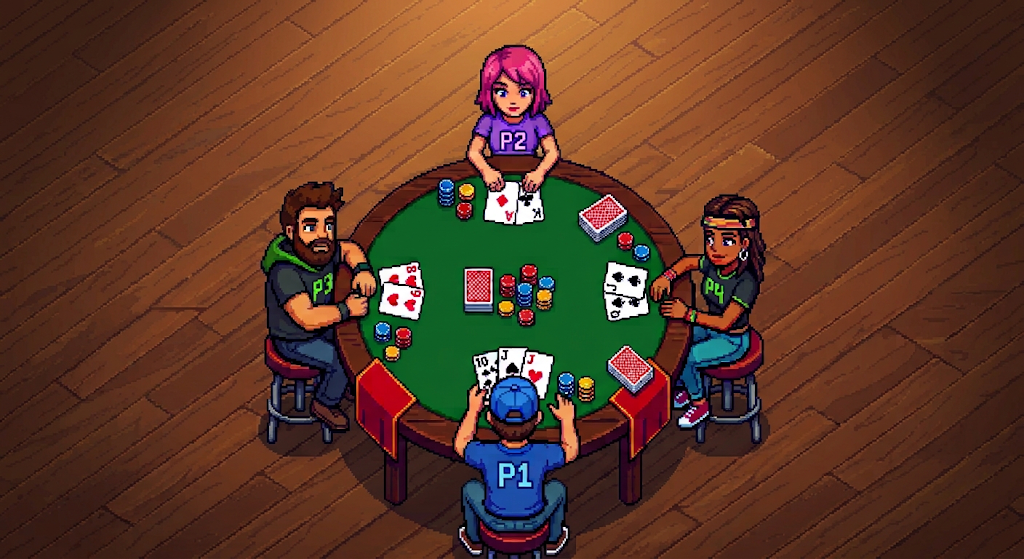
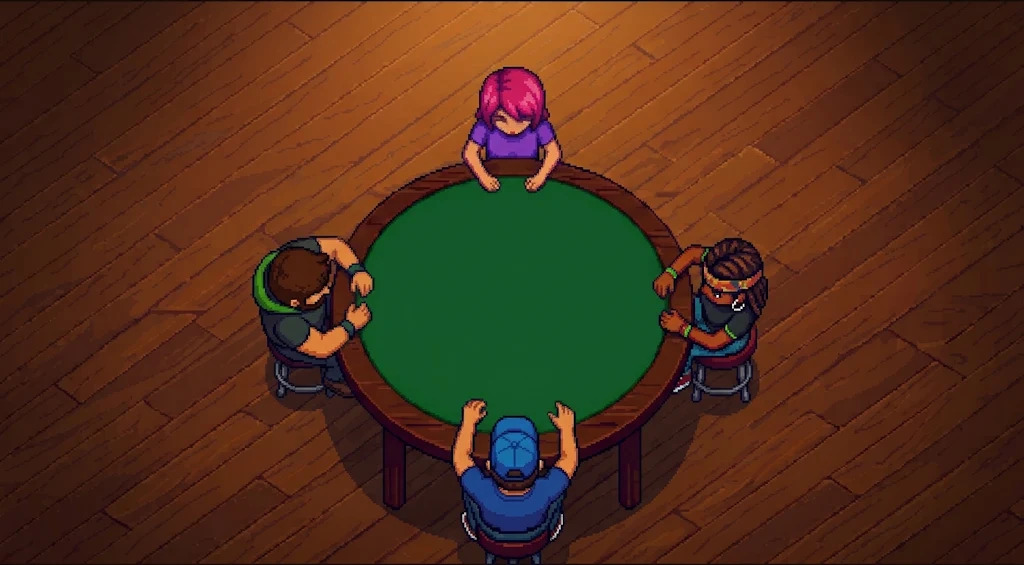
feat(frontend): exibir raciocínio dos agentes na mesa

diff --git a/src/frontend/src/App.jsx b/src/frontend/src/App.jsx
@@ -7,15 +7,24 @@ const BASE_MS = 900;
 const AREAS = ["bottom", "right", "top", "left"]; // seats A1, B1, A2, B2: partners face each other
 
 // Where things go on the scene image, in % of its width and height (x, y).
-// card = where that player's played card lands in the middle of the table.
+// mind = which edges of the image that player's thinking box is pinned to (in %). It grows inward from there, so it is never cut off.
+// The speech bubble hangs off the box (below a top box, above a bottom one), so it is always next to whoever is talking;
+// it may cover part of the table as long as it stays off the cards and the players.
+// card = where that player's played card lands on the felt; hand = the fan of cards on the felt in front of them.
+// Everything on the felt stays inside the green oval (about x 35-65%, y 31-73%) so no card covers a player or the wood.
 // If the art changes, this is the only place to adjust.
 const SPOT = {
-  bottom: { card: [50, 57.6], hand: [49.8, 66.5], tag: [50, 96.5], bubble: [65, 80] },
-  right: { card: [54.3, 53], hand: [61.3, 51.9], tag: [81, 60], bubble: [79, 30] },
-  top: { card: [50, 48.3], hand: [50.3, 36.7], tag: [50, 4], bubble: [62, 12] },
-  left: { card: [45.7, 53], hand: [39.1, 51.5], tag: [19, 60], bubble: [24, 28] },
+  bottom: { card: [50.3, 58.5], hand: [50.2, 67.5], mind: { left: 1, bottom: 2 }, tag: [50, 94] },
+  right: { card: [55.3, 54], hand: [61.4, 53.3], mind: { right: 1, bottom: 2 }, tag: [79, 53] },
+  top: { card: [49.7, 48.3], hand: [50.2, 38.5], mind: { right: 1, top: 2 }, tag: [50, 5] },
+  left: { card: [44.7, 53], hand: [38.8, 53.3], mind: { left: 1, top: 2 }, tag: [21, 53] },
 };
+// Seat tag (A1, B2...): by default it sits beyond each hand, away from the table centre, i.e. next to the player.
+// To place one by hand, add tag: [x, y] to that seat in SPOT.
+const CENTER = [50, 53.5];
+const tagPos = ({ tag, hand }) => tag ?? hand.map((v, i) => Math.max(4, Math.min(96, CENTER[i] + (v - CENTER[i]) * 2.2)));
 const at = ([x, y]) => ({ left: `${x}%`, top: `${y}%` });
+const pin = (edges) => Object.fromEntries(Object.entries(edges).map(([k, v]) => [k, `${v}%`]));
 
 const MANILHAS = new Set(["7D", "AS", "7H", "4C"]);
 const pct = (x) => `${Math.round(x * 100)}%`;
@@ -28,30 +37,60 @@ function Card({ card, back, area, style }) {
   return <img className={cls} style={style} src={`/cards/${file}.png`} alt={card.rank} title={card.rank === "4C" ? "Zap" : card.rank} />;
 }
 
-function Thought({ th }) {
-  const hasChance = th.win_chance != null;
-  const what = [th.decision, th.card, th.response].filter(Boolean).join(" ");
+const fmt = (x) => (x == null ? "–" : Number(x).toFixed(2));
+// Strengths go from 0 to 1 (power = (position / 11) ** 1.5). The ticks mark WEAK_BELOW and STRONG_FROM from config.py.
+const WEAK_BELOW = 0.35, STRONG_FROM = 0.6;
+
+function Strength({ label, value }) {
+  const v = value == null ? 0 : Math.max(0, Math.min(1, Number(value)));
   return (
-    <div className="thought" title={th.beliefs ? JSON.stringify(th.beliefs) : ""}>
-      {hasChance && (
-        <div className="bar">
-          <i style={{ width: pct(th.win_chance) }} />
-          <b style={{ left: pct(th.raise_threshold) }} />
-        </div>
-      )}
-      <small>{what}{hasChance && ` · chance ${pct(th.win_chance)} · limiar ${pct(th.raise_threshold)}`}</small>
+    <div className="row">
+      <span>{label}</span>
+      <div className="bar">
+        <i style={{ width: pct(v) }} />
+        <u style={{ left: pct(WEAK_BELOW) }} />
+        <u style={{ left: pct(STRONG_FROM) }} />
+      </div>
+      <strong>{fmt(value)}</strong>
     </div>
   );
 }
 
-function Mind({ seat, st }) {
+function Thought({ th, names }) {
+  const who = (jid) => names[jid] ?? jid;
+  const what = [th.decision, th.card, th.response].filter(Boolean).join(" ");
+  const partner = Object.entries(th.beliefs_about_partner ?? {});
+  const opponents = Object.entries(th.beliefs_about_opponents ?? {});
+  return (
+    <div className="thought">
+      <Strength label="Minha mão" value={th.own_strength} />
+      {partner.map(([jid, v]) => <Strength key={jid} label={`Parceiro ${who(jid)}`} value={v} />)}
+      {opponents.map(([jid, v]) => <Strength key={jid} label={`Oponente ${who(jid)}`} value={v} />)}
+      {th.win_chance != null && (
+        <div className="row chance" title={`limiar para aumentar: ${pct(th.raise_threshold)}`}>
+          <span>Chance de ganhar</span>
+          <div className="bar">
+            <i style={{ width: pct(th.win_chance) }} />
+            <b style={{ left: pct(th.raise_threshold) }} />
+          </div>
+          <strong>{pct(th.win_chance)}</strong>
+        </div>
+      )}
+      <p className="what">{what}</p>
+    </div>
+  );
+}
+
+function Mind({ seat, st, style, side }) {
+  const bubble = st.bubbles[seat.jid];
   const talk = st.talk?.[seat.jid];
   const th = st.thoughts[seat.jid];
   return (
-    <section className={`mind team${seat.team}`}>
-      <h3>{seat.seat} <span>{seat.personality}</span></h3>
+    <section className={`mind team${seat.team}`} style={style}>
+      <h3><b className="seat">{seat.seat}</b> <span>{seat.personality}</span></h3>
       {talk && <p className="talk">conversa: <em className={talk.action}>{talk.action}{talk.value && ` ${talk.value}`}</em></p>}
-      {th && <Thought th={th} />}
+      {bubble && <span key={bubble} className={`bubble ${side}`}>{bubble}</span>}
+      {th ? <Thought th={th} names={st.names} /> : <p className="wait">aguardando decisão</p>}
     </section>
   );
 }
@@ -99,6 +138,7 @@ export default function App() {
           <button onClick={() => setPlaying(!playing)}>{playing ? "Pausar" : "Continuar"}</button>
           <button onClick={() => setCursor((c) => Math.min(c + 1, events.length))}>Próximo evento</button>
           <button onClick={() => setCursor(events.length)}>Ir ao vivo</button>
+          <label className="toggle"><input type="checkbox" checked={showHands} onChange={(e) => setShowHands(e.target.checked)} /> Mostrar mãos</label>
           <select value={speed} onChange={(e) => setSpeed(Number(e.target.value))} aria-label="Velocidade">
             {SPEEDS.map((v) => <option key={v} value={v}>{v}×</option>)}
           </select>
@@ -112,14 +152,12 @@ export default function App() {
         <main>
           <div className="scene">
             <img className="bg" src="/table.png" alt="Quatro jogadores em volta da mesa de truco" />
-            <div className="mat" />
             {st.seats.map((seat, i) => {
               const spot = SPOT[AREAS[i]];
               const hand = st.hands[seat.jid] ?? [];
               return (
                 <Fragment key={seat.jid}>
-                  <div className="hand-mat" style={at(spot.hand)} />
-                  <div className="fan" style={at(spot.hand)}>
+                  <div className={`fan ${AREAS[i]}`} style={at(spot.hand)}>
                     {hand.map((c, k) => (
                       <Card key={`${c.rank}${c.suit}${k}`} card={c} back={!showHands} style={{ "--r": `${(k - (hand.length - 1) / 2) * 7}deg` }} />
                     ))}
@@ -134,19 +172,12 @@ export default function App() {
               return (
                 <Fragment key={seat.jid}>
                   {played && <Card key={st.tableSeq[seat.jid]} card={played} area={area} style={at(spot.card)} />}
-                  <span className={`tag team${seat.team}`} style={at(spot.tag)}>{seat.seat} {seat.personality}</span>
-                  {st.bubbles[seat.jid] && <span key={st.bubbles[seat.jid]} className="bubble" style={at(spot.bubble)}>{st.bubbles[seat.jid]}</span>}
+                  <span className={`tag team${seat.team}`} style={at(tagPos(spot))}>{seat.seat}</span>
+                  <Mind seat={seat} st={st} style={pin(spot.mind)} side={spot.mind.top != null ? "below" : "above"} />
                 </Fragment>
               );
             })}
           </div>
-          <aside>
-            <h2>Raciocínio</h2>
-            <label className="toggle"><input type="checkbox" checked={showHands} onChange={(e) => setShowHands(e.target.checked)} /> Mostrar mãos</label>
-            {st.seats.map((seat) => <Mind key={seat.jid} seat={seat} st={st} />)}
-            <h2>Eventos</h2>
-            <ol>{st.log.slice().reverse().map((l, i) => <li key={i}>{l}</li>)}</ol>
-          </aside>
         </main>
       )}
     </div>

diff --git a/src/frontend/src/styles.css b/src/frontend/src/styles.css
@@ -1,7 +1,9 @@
+/* felt colour is read from the image itself, no overlay needed */
 :root {
   --floor: #24150c; --plank: #3a2314; --edge: #1a0e07; --paper: #f3ead2; --ink: #2b1b12;
   --red: #c8372d; --brass: #e0b04a; --teamA: #6fd0b8; --teamB: #f0a24a;
   --felt-mat: #0e6226; /* tune to match the table in the image */
+  --num: "Atkinson Hyperlegible Mono", ui-monospace, monospace; /* digits are hard to read in Pixelify Sans */
   --pixel: "Pixelify Sans", ui-monospace, "Courier New", monospace;
 }
 * { box-sizing: border-box; }
@@ -20,35 +22,38 @@ header { display: flex; flex-wrap: wrap; gap: 1rem 2rem; align-items: center; ju
 .controls { display: flex; gap: .5rem; flex-wrap: wrap; }
 .empty, .error { padding: 2rem 1.5rem; } .error { color: #ff9a8f; }
 
-main { display: grid; grid-template-columns: minmax(0, 1fr) 19rem; gap: 1.2rem; padding: 1.2rem 1.5rem; align-items: start; }
+main { padding: .6rem; }
 
 /* Scene: the image plus everything laid over it, positioned in % (see SPOT in App.jsx) */
-.scene { position: relative; container-type: inline-size; border: 4px solid var(--edge); box-shadow: 0 6px 0 #0008; line-height: 0; }
+.scene { width: min(100%, calc((100vh - 5.5rem) * 1.812)); margin: 0 auto; position: relative; container-type: inline-size; border: 4px solid var(--edge); box-shadow: 0 6px 0 #0008; line-height: 0; }
 .scene > * { position: absolute; transform: translate(-50%, -50%); line-height: 1.3; }
 .scene > img.bg { position: static; transform: none; width: 100%; height: auto; display: block; image-rendering: pixelated; }
-.mat { left: 50%; top: 52.8%; width: 17.9%; height: 19.3%; background: var(--felt-mat); border-radius: 50%; box-shadow: 0 0 1cqw .8cqw var(--felt-mat); }
 
-.tag { font-size: clamp(10px, 1.35cqw, 15px); background: var(--ink); border: 2px solid var(--team); padding: .1em .6em; white-space: nowrap; }
-.bubble { font-size: clamp(11px, 1.8cqw, 19px); font-weight: 700; background: #fffbe9; color: var(--ink); border: 2px solid var(--ink); box-shadow: 3px 3px 0 #0006; padding: .15em .6em; white-space: nowrap; animation: pop .25s steps(3) both; }
+.bubble { position: absolute; left: 50%; translate: -50% 0; z-index: 2; font-size: clamp(11px, 1.8cqw, 19px); font-weight: 700; background: #fffbe9; color: var(--ink); border: 3px solid var(--team); box-shadow: 3px 3px 0 #0006; padding: .15em .6em; white-space: nowrap; animation: pop .25s steps(3) both; }
+.bubble.below { top: 100%; margin-top: .5em; }
+.bubble.above { bottom: 100%; margin-bottom: .5em; }
 @keyframes pop { from { scale: .6; } to { scale: 1; } }
 
 
-aside { background: var(--plank); border: 4px solid var(--edge); padding: .8rem 1rem; max-height: 85vh; overflow-y: auto; display: grid; gap: .7rem; }
-aside h2 { margin: .3rem 0 0; font-size: 1.1rem; color: var(--brass); }
 .toggle { font-size: .9rem; display: flex; gap: .5rem; align-items: center; }
-.mind { border-left: 4px solid var(--team); padding-left: .6rem; display: grid; gap: .3rem; }
-.mind h3 { margin: 0; font-size: 1rem; } .mind h3 span { font-weight: 400; opacity: .7; margin-left: .4rem; }
-.hand { display: flex; gap: .3rem; }
-.talk { margin: 0; font-size: .8rem; } .talk em { font-style: normal; border: 1px solid var(--paper); padding: 0 .4rem; }
+.mind { font-size: clamp(9px, .95cqw, 14px); background: #2b1b12ee; border: 2px solid var(--team); padding: .5em .7em; display: grid; gap: .3em; }
+.tag { font-family: var(--num); font-weight: 700; font-size: clamp(11px, 1.6cqw, 18px); background: var(--ink); border: 2px solid var(--team); color: var(--team); padding: .05em .5em; white-space: nowrap; }
+/* only the numbers use the readable face; the rest of the text stays in Pixelify Sans */
+.row strong, .plaque strong, .meta, .seat { font-family: var(--num); font-weight: 700; font-variant-numeric: tabular-nums; }
+.scene > .mind { transform: none; width: max-content; min-width: 20cqw; }
+.mind h3 { margin: 0; white-space: nowrap; font-size: 1.15em; color: var(--team); } .mind h3 span { font-weight: 400; color: var(--paper); opacity: .7; margin-left: .4rem; }
+.talk { margin: 0; font-size: .85em; } .talk em { font-style: normal; border: 1px solid var(--paper); padding: 0 .4rem; }
 .talk .bluff { border-color: var(--red); color: #ff9a8f; } .talk .spy { border-color: var(--brass); color: var(--brass); }
-.thought { display: grid; gap: .25rem; } .thought small { font-size: .75rem; opacity: .9; }
-.bar { position: relative; height: 8px; background: var(--ink); border: 1px solid var(--edge); }
-.bar i { position: absolute; inset: 0 auto 0 0; background: var(--teamA); }
+.thought { display: grid; gap: .25em; }
+.row { display: grid; grid-template-columns: max-content minmax(4em, 1fr) 2.7em; align-items: center; gap: .5em; font-size: 1em; white-space: nowrap; }
+.row strong { text-align: right; font-variant-numeric: tabular-nums; }
+.chance strong { color: var(--team); }
+.thought .what, .wait { margin: 0; font-size: .85em; opacity: .8; }
+.bar u { position: absolute; top: 0; bottom: 0; width: 1px; background: var(--paper); opacity: .35; }
+.bar { position: relative; height: .7em; background: var(--floor); border: 1px solid var(--edge); }
+.bar i { position: absolute; inset: 0 auto 0 0; background: var(--team); }
 .bar b { position: absolute; top: -3px; bottom: -3px; width: 2px; background: var(--brass); }
-aside ol { list-style: none; margin: 0; padding: 0; display: grid; gap: .3rem; font-size: .85rem; }
-aside li:first-child { color: var(--brass); }
 
-@media (max-width: 960px) { main { grid-template-columns: 1fr; } }
 @media (prefers-reduced-motion: reduce) { .scene .card, .bubble { animation: none; } }
 
 
@@ -56,10 +61,23 @@ aside li:first-child { color: var(--brass); }
 .card { display: inline-grid; place-items: center; width: 2.6rem; aspect-ratio: 68 / 98; }
 .card.back { background: repeating-linear-gradient(45deg, #b3342b 0 3px, #8f2620 3px 6px); border: 2px solid var(--paper); box-shadow: 0 0 0 2px var(--ink); }
 .card.joker { background: var(--paper); border: 2px solid var(--ink); color: var(--red); font-weight: 700; font-size: clamp(7px, 1cqw, 11px); }
-.scene > .card { width: 3.8cqw; animation: drop .28s steps(4) both; }
-.card.bottom { --dx: 0px; --dy: 40px; } .card.top { --dx: 0px; --dy: -40px; } .card.left { --dx: -40px; --dy: 0px; } .card.right { --dx: 40px; --dy: 0px; }
-@keyframes drop { from { transform: translate(-50%, -50%) translate(var(--dx), var(--dy)); } to { transform: translate(-50%, -50%); } }
-.hand-mat { width: 8.4cqw; height: 4.8cqw; background: var(--felt-mat); border-radius: 1cqw; box-shadow: 0 0 .7cqw .5cqw var(--felt-mat); }
+/* Played cards: each one is turned to face its player (the top of the card points away from them) */
+.scene > .card { width: 3.4cqw; --rot: 0deg; transform: translate(-50%, -50%) rotate(var(--rot)); animation: drop .28s steps(4) both; filter: drop-shadow(0 .15cqw 0 #0007); }
+.card.bottom { --dx: 0px; --dy: 40px; --rot: 0deg; }
+.card.top { --dx: 0px; --dy: -40px; --rot: 180deg; }
+.card.left { --dx: -40px; --dy: 0px; --rot: 90deg; }
+.card.right { --dx: 40px; --dy: 0px; --rot: -90deg; }
+@keyframes drop {
+  from { transform: translate(-50%, -50%) translate(var(--dx), var(--dy)) rotate(var(--rot)); }
+  to { transform: translate(-50%, -50%) rotate(var(--rot)); }
+}
+
+/* Hands: fanned on the felt in front of each player, turned to face them */
 .fan { display: flex; }
-.fan .card { width: 3.1cqw; margin: 0 -.8cqw; rotate: var(--r, 0deg); filter: drop-shadow(0 2px 0 #0008); }
-.fan .joker { font-size: clamp(6px, .8cqw, 9px); }
+.fan.bottom { transform: translate(-50%, -50%); }
+.fan.top { transform: translate(-50%, -50%) rotate(180deg); }
+.fan.left { transform: translate(-50%, -50%) rotate(90deg); }
+.fan.right { transform: translate(-50%, -50%) rotate(-90deg); }
+.fan .card { width: 2.8cqw; margin: 0 -.5cqw; rotate: var(--r, 0deg); filter: drop-shadow(0 .15cqw 0 #0008); }
+.fan .card.back { border-width: 1px; box-shadow: 0 0 0 1px var(--ink); }
+.fan .joker { font-size: clamp(5px, .7cqw, 8px); }

diff --git a/src/frontend/index.html b/src/frontend/index.html
@@ -5,8 +5,7 @@
     <meta name="viewport" content="width=device-width, initial-scale=1" />
     <link rel="preconnect" href="https://fonts.googleapis.com" />
     <link rel="preconnect" href="https://fonts.gstatic.com" crossorigin />
-    <link href="https://fonts.googleapis.com/css2?family=Pixelify+Sans:wght@400;700&display=swap" rel="stylesheet" />
-    <title>Truco Mineiro · Mesa</title>
+<link href="https://fonts.googleapis.com/css2?family=Pixelify+Sans:wght@400;700&family=Atkinson+Hyperlegible+Mono:wght@500;700&display=swap" rel="stylesheet" />    <title>Truco Mineiro · Mesa</title>
   </head>
   <body>
     <div id="root"></div>

diff --git a/src/truco/agents/player.py b/src/truco/agents/player.py
@@ -437,13 +437,14 @@ class TrucoBehaviour(LoggedSend, CyclicBehaviour):
 
     def snapshot(self) -> dict:
         """O raciocínio atual, para a interface. Não altera nenhum estado."""
-        others = [self.agent.partner, *self.agent.opponents]
         return {
             "win_chance": round(self.win_chance(), 3),
+            "own_strength": round(self.hand_strength(), 3),
             "threat": round(self.threat(), 3),
             "raise_threshold": round(self.raise_threshold(), 3),
             "advantage": round(self.advantage(), 3),
-            "beliefs": {str(p): round(self.belief_about(p), 3) for p in others},
+            "beliefs_about_partner": {str(self.agent.partner): self.belief_about(self.agent.partner)},
+            "beliefs_about_opponents": {str(p): round(self.belief_about(p), 3) for p in self.agent.opponents},
             "announcements": {
                 str(player): {"category": a.category, "source": a.source}
                 for player, a in self.agent.announcements.items()
@@ -472,7 +473,7 @@ class TrucoBehaviour(LoggedSend, CyclicBehaviour):
     def trust(self, speaker: JID, category: Category, source: Source) -> float:
         """How much I believe an announcement about `speaker`.
 
-        The ×0.7 for whoever did not choose "listen" is applied by belief_about, on top
+        The x0.7 for whoever did not choose "listen" is applied by belief_about, on top
         of this value."""
 
     @abstractmethod
